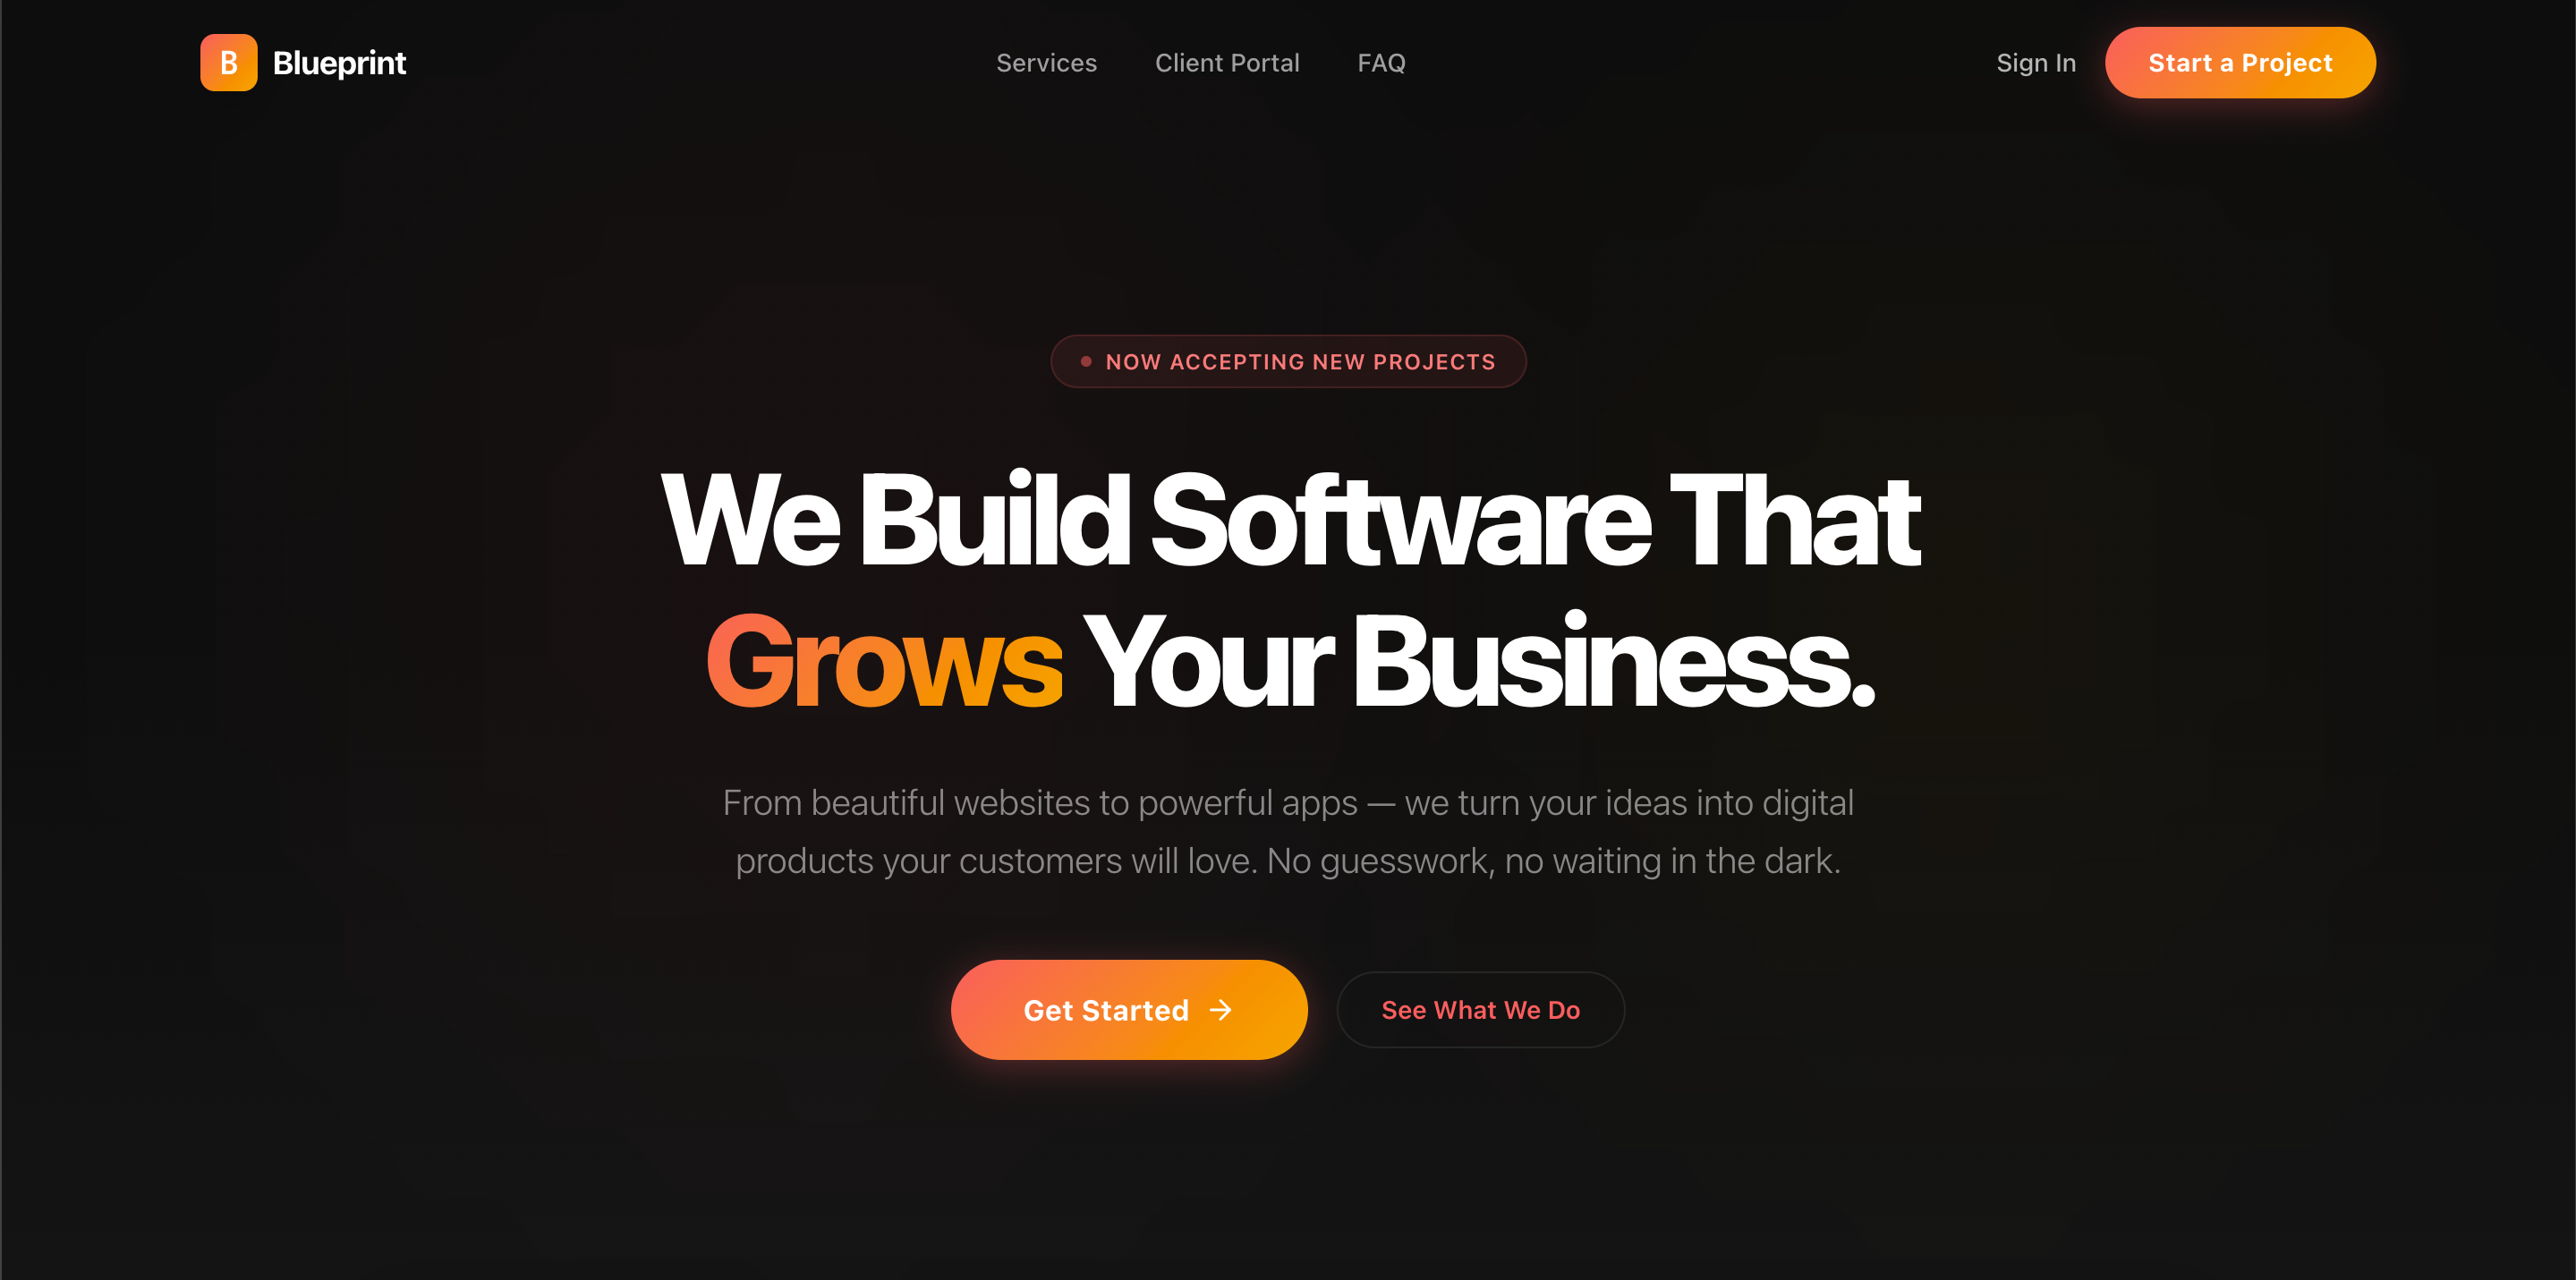
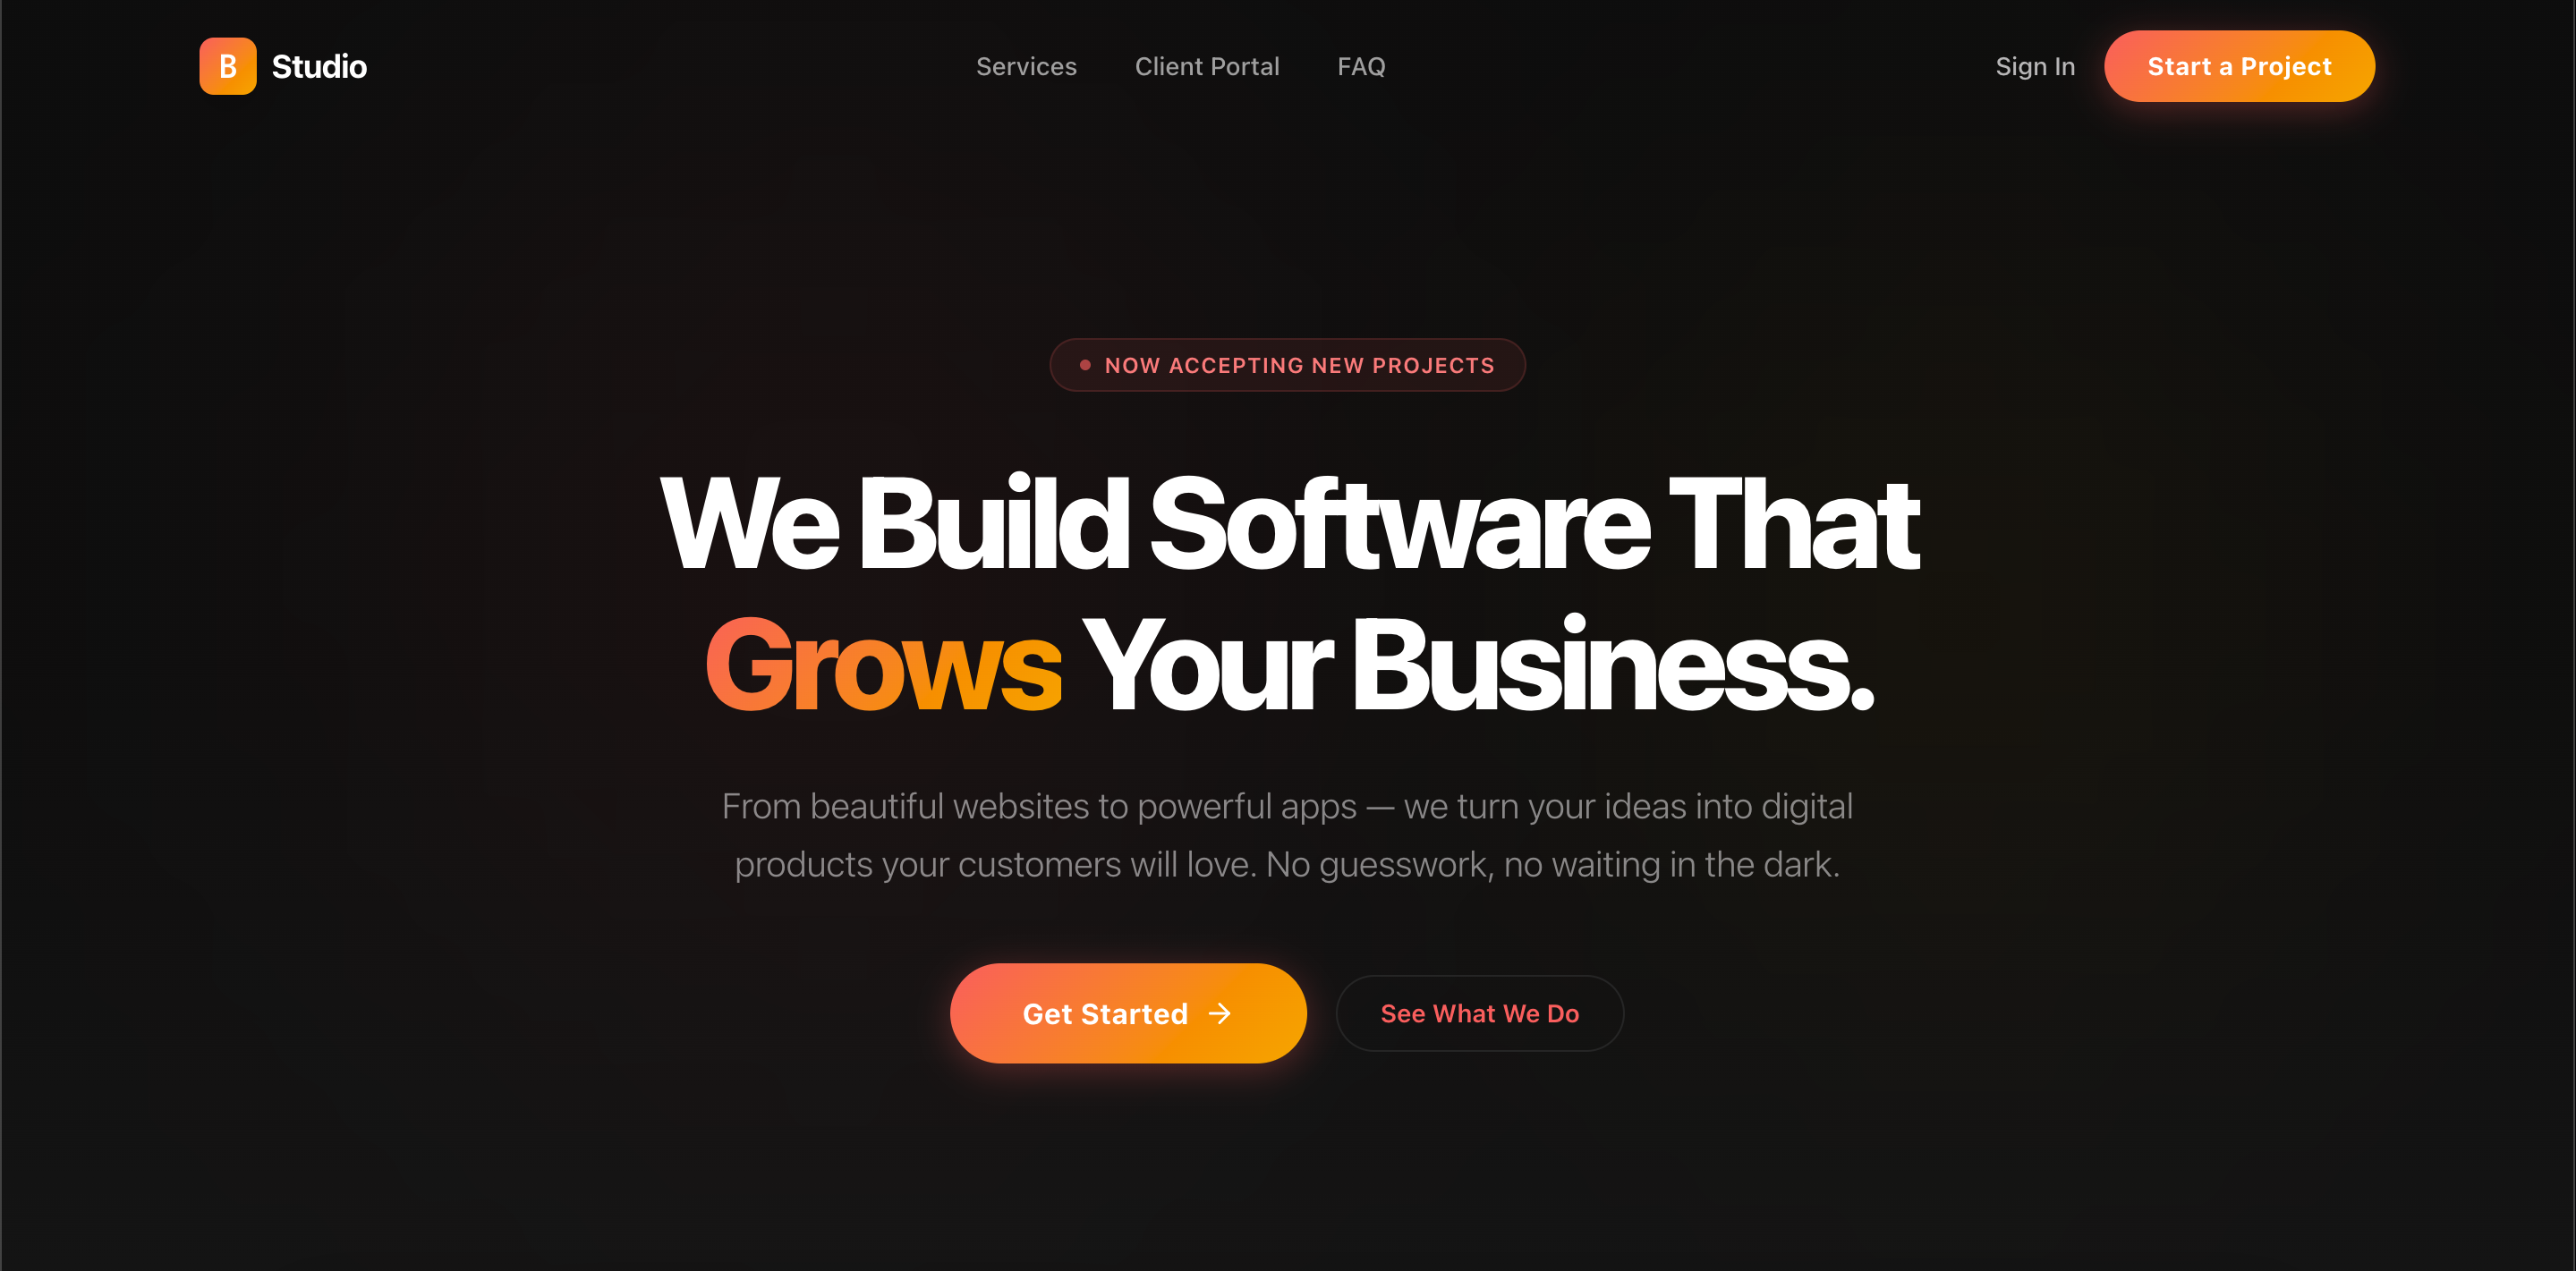
feat: rename Blueprint project to My Studio and update project thumbnail

diff --git a/constants/projects.js b/constants/projects.js
@@ -1,7 +1,7 @@
 // app/constants/projects.js
 export const PROJECTS = [
   {
-    name: "Blueprint — Project Portal",
+    name: "My Studio — Clients Project Portal",
     url: "https://studio.bennyhinn.life",
     description:
       "A full-stack client project management platform. Built to bring radical transparency and elegance to the studio-client relationship.",